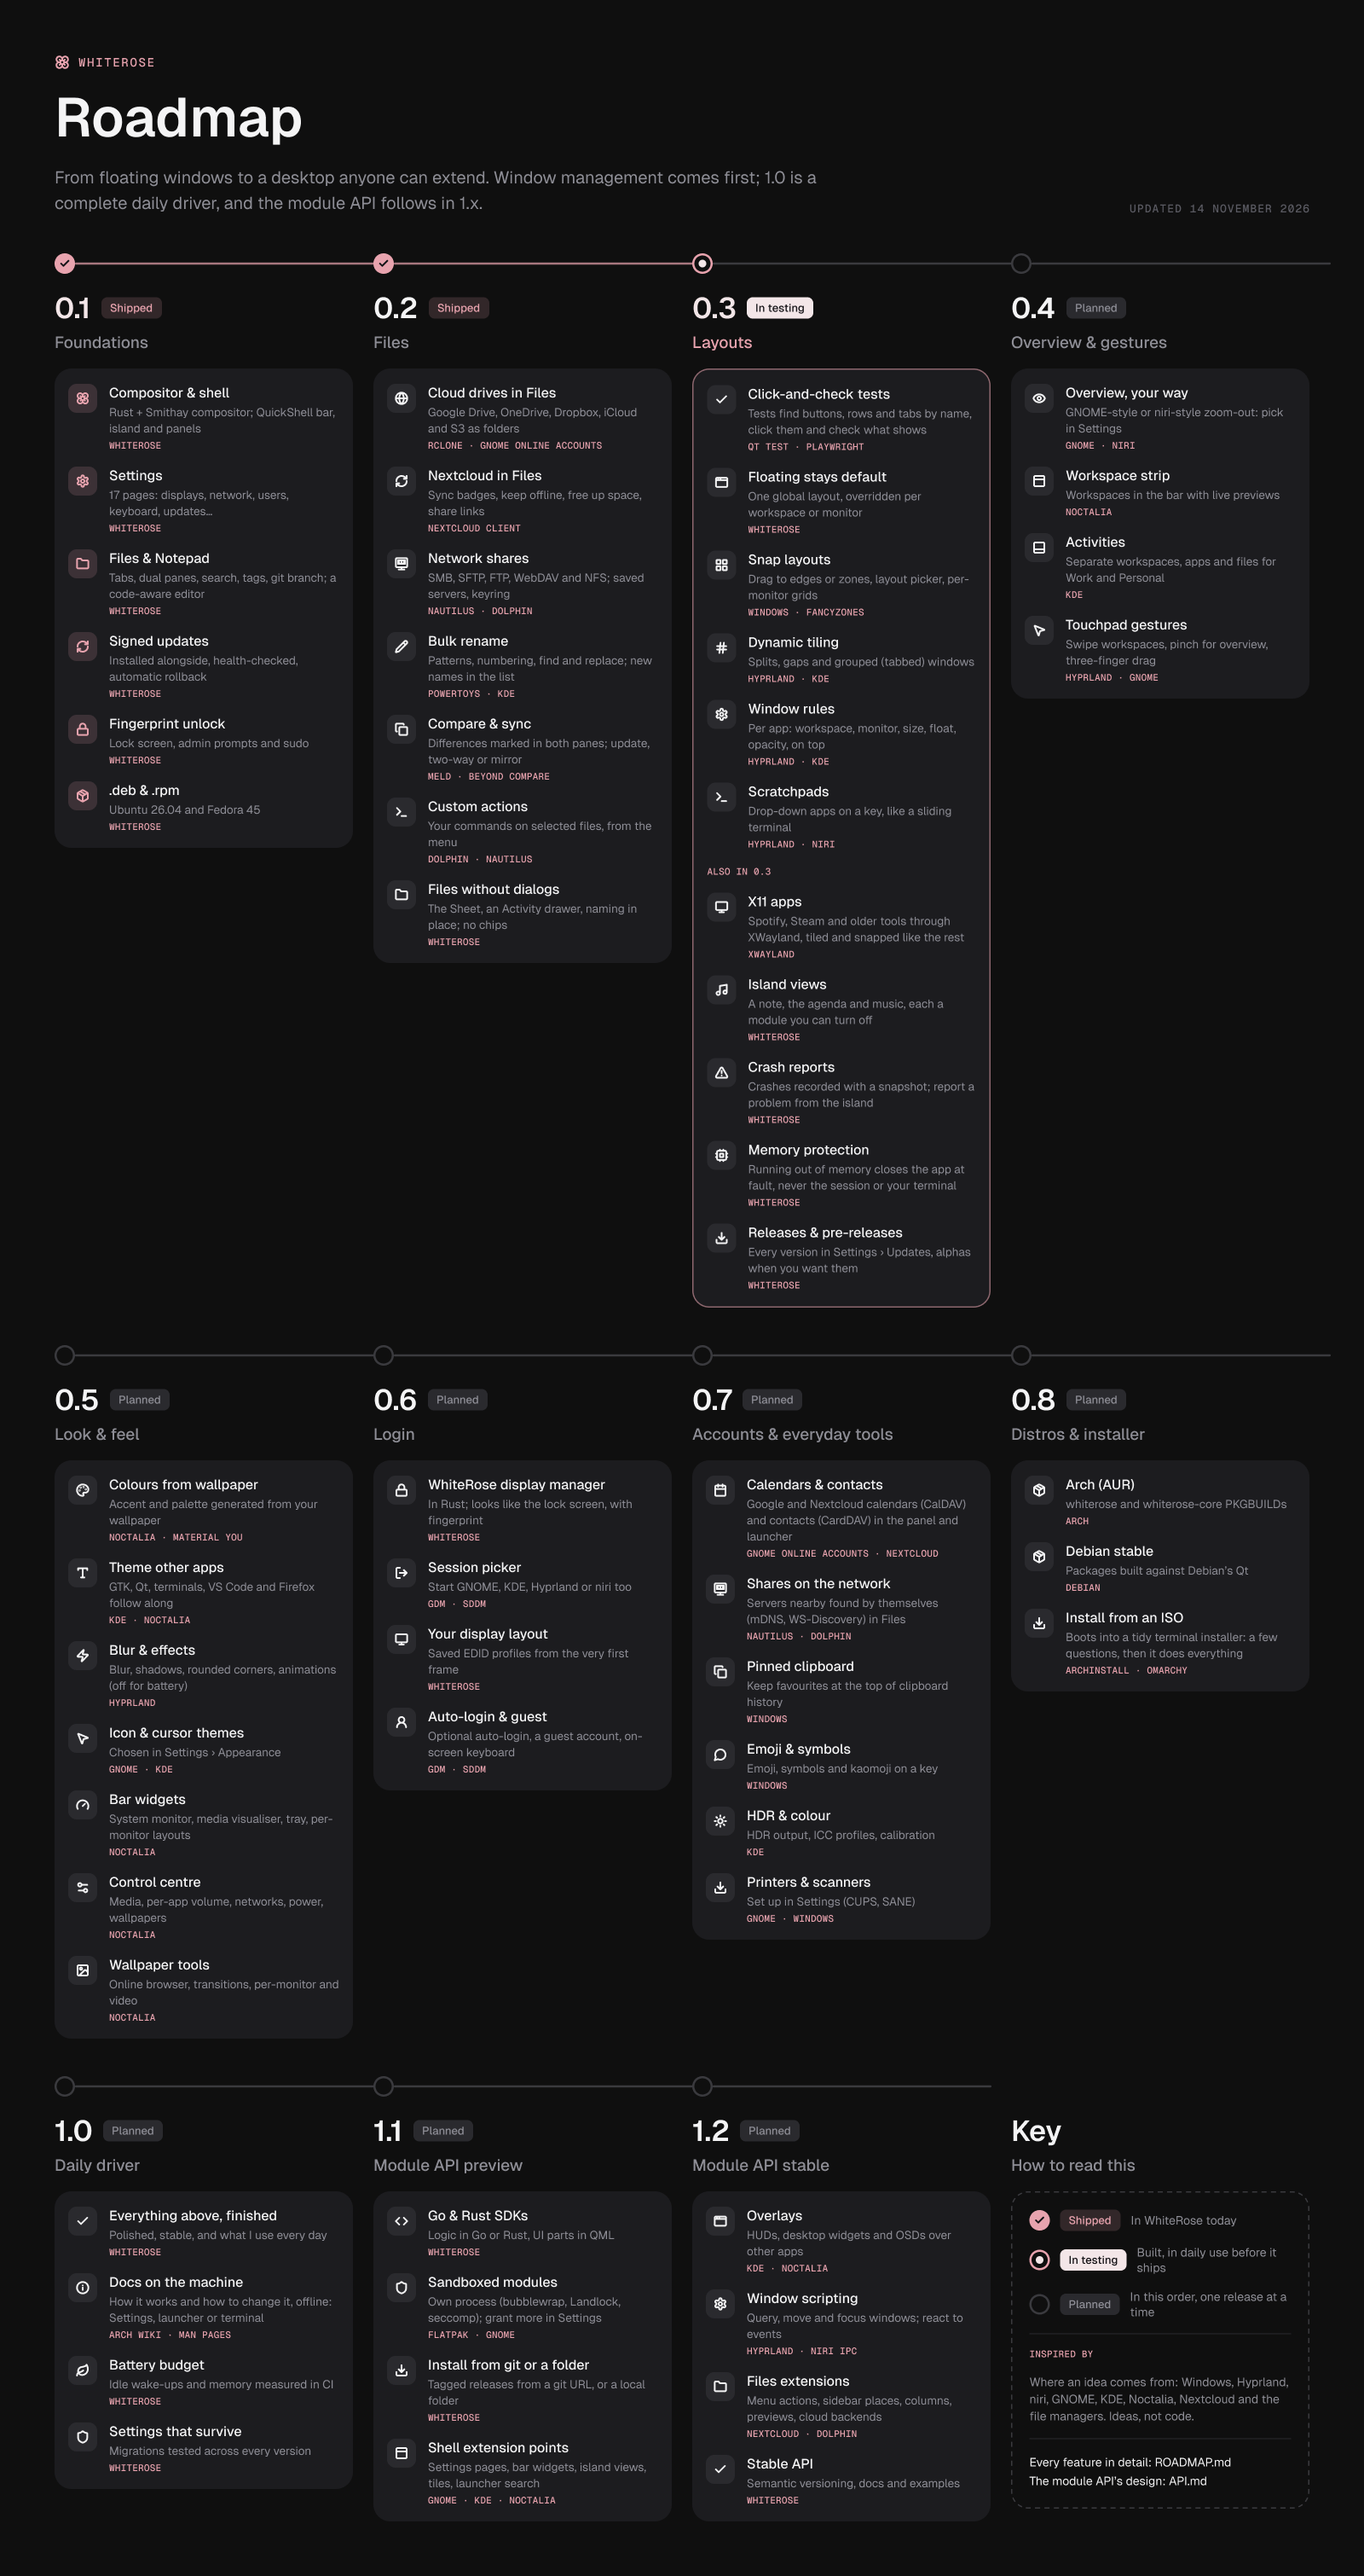
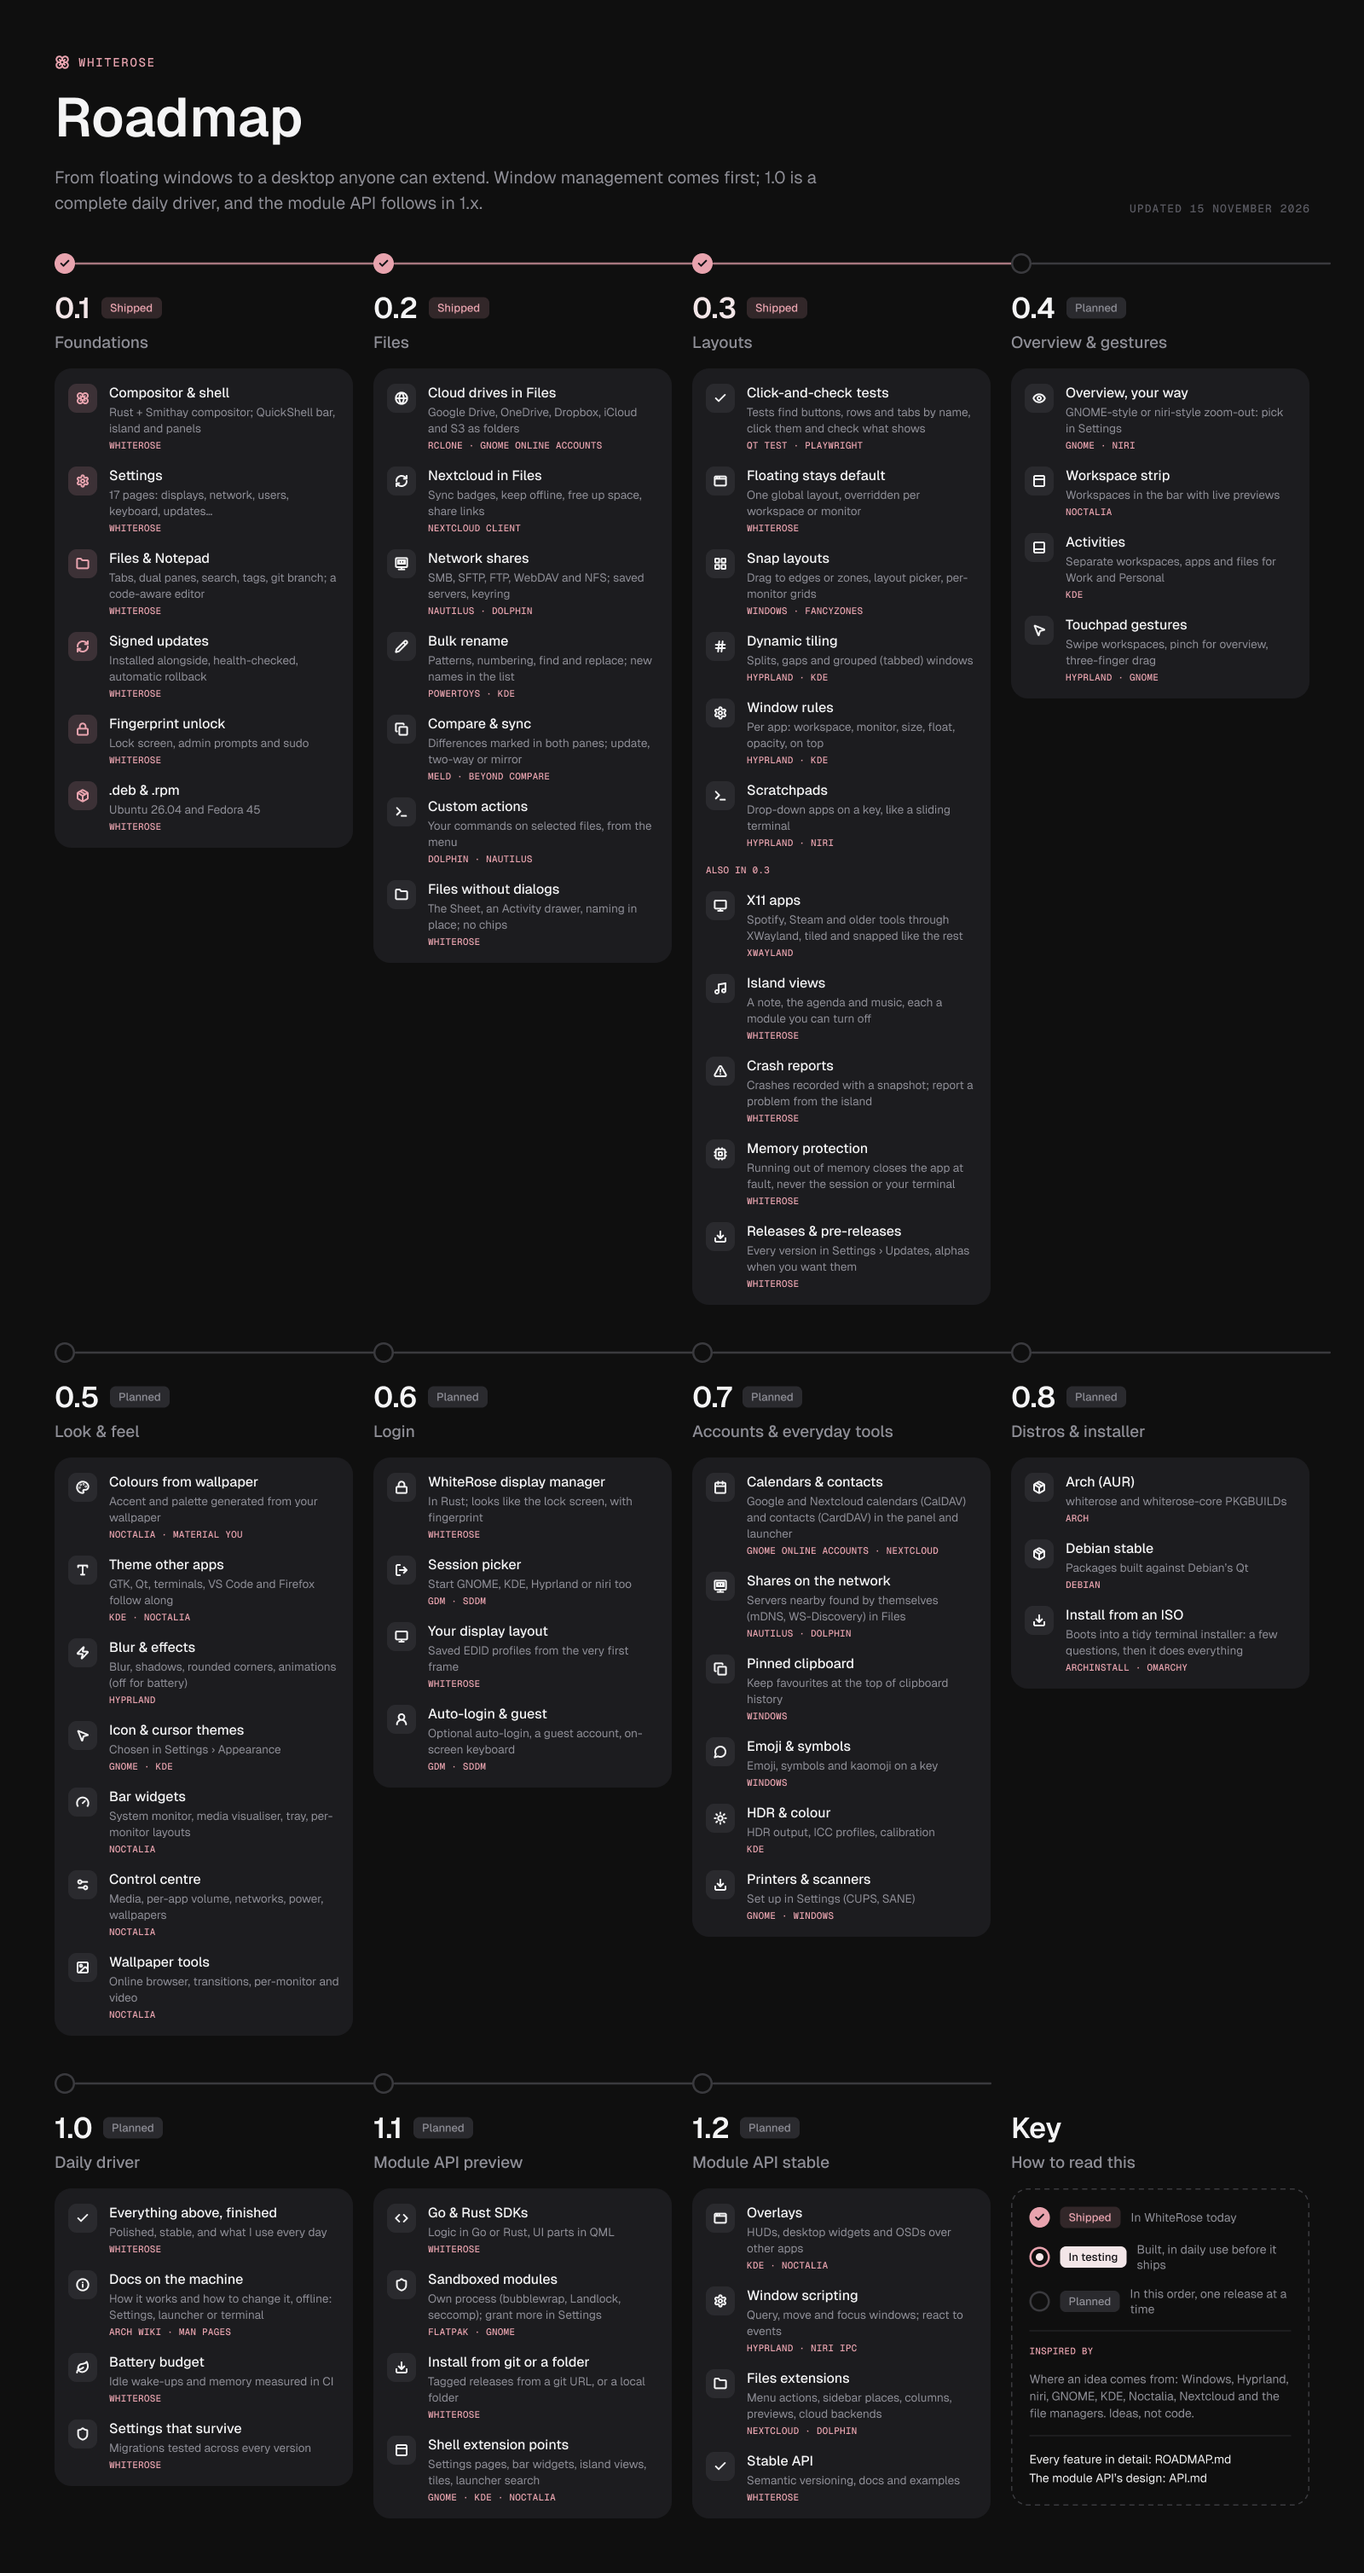
feat: added release project notes for 0.3, as well as update the roadmap

diff --git a/CHANGELOG.md b/CHANGELOG.md
@@ -2,6 +2,72 @@
 
 Every WhiteRose release, newest first. Written from `project.yaml` by `make changelog`; edit that, not this.
 
+## 0.3.0 · Layouts (2026-11-15)
+
+Windows that arrange themselves: tiled, snapped to edges and your own zones, placed by per-app rules, or dropped down as scratchpads. 0.3 also brings what a daily desktop can't do without: X11 apps, a session that survives running out of memory, problem reports from the island, and every release in Settings › Updates.
+
+### Added
+
+- Tiling: dwindle and master-stack layouts with gaps, chosen for everything and overridden per workspace or monitor (Settings › Windows, SUPER+T, or the button on the bar)
+- Snapping: drag a window to an edge or corner, or pick a layout from SUPER+Z, a drag to the top, or a WhiteRose app's maximise button. Snap zones are your own grid per monitor or workspace, used with SHIFT while dragging (Settings › Snapping)
+- Window rules: by app and title, open a window on a workspace or monitor, floating or tiled, at a size, in a snap zone, see-through or always on top (Settings › Window rules)
+- Scratchpads: apps shown and hidden with a key, sliding down from the island, like a drop-down terminal (Settings › Scratchpads)
+- X11 apps (Spotify, Steam, older tools) open through XWayland and work like any other window, with copy and paste and drag and drop both ways. Xwayland only runs while an X11 app is open
+- Running out of memory no longer ends the session: each app runs on its own, the island names the one at fault, and when memory is critical an app big enough to help is closed. Terminals and the apps you choose are never closed (Settings › Apps › Memory)
+- Report a problem step by step in the island (SUPER+SHIFT+B, Settings › About, or after a crash): what WhiteRose recorded is filled in, and you see everything before it's sent
+- Crashes are recorded with a snapshot of the moment (load, open windows, the session log), and the island offers to report them
+- Settings › Updates › Releases: every release with its notes and a search, and installing any of them (older ones too). A Pre-releases switch offers alphas and betas as updates
+- Tabbed groups: several windows in one tile with a strip of their icons (SUPER+G, SUPER+. and SUPER+,)
+- Keyboard control of tiles: focus, move and resize with SUPER and the arrows, SUPER+R to resize, SUPER+J to flip a split, SUPER+M to make master
+- SUPER+ALT+arrow moves a window to the previous or next workspace, and SUPER+CTRL+arrow to the monitor on that side
+- In the island: a note with tasks (SUPER+SHIFT+N), the agenda (SUPER+A, or click the clock), music for whichever player is playing (SUPER+SHIFT+M) and clipboard history (SUPER+V)
+- SUPER+K shows the keyboard shortcuts worth knowing, on the keys they're on now (your own included)
+- Open and save dialogs in other apps use Files (through the desktop portal), and so does choosing your account picture
+- Default apps (Settings › Apps › Default apps): what opens each kind of file, by category or by file type
+- Nextcloud accounts in Files, signing in with Nextcloud's own browser sign-in
+- Mouse & touchpad settings: scroll direction, speed, acceleration and tap to click; shake the pointer to find it; hold CTRL+SHIFT to move it faster
+- Touchpad gestures reach apps: pinch to zoom in browsers (and Figma), swipe and hold
+- After a fingerprint login, the island asks once for your password to open the keyring, so calendars and other accounts come back; unlocking with your password opens it too
+- Monitors plugged in after logging in show up straight away, and screens can be scaled to 75%
+- ALT+TAB can show apps from every workspace or only this one (Settings › Windows)
+
+### Changed
+
+- The window switcher is SUPER+TAB (was SUPER+ALT+TAB); ALT+TAB still switches apps
+- Files is fast on network drives: folders load in the background, open at once when you've been there, and files open and preview without waiting on the server. Network drives show by name, not by their mount folder
+- Files builds its search index in the background, and Settings › Files shows how far it's got
+- Settings fits narrow windows: the sidebar folds away and pages reflow
+- Sliders only take the scroll wheel once you've clicked them, so scrolling a page doesn't move them
+- Do not disturb shows a bell with a line through it in the bar, and the bar's icons are sharper
+- The lock screen and quick settings share one profile picture, and a new picture shows without restarting
+- Plainer wording in sentence case across the shell, Settings and the apps
+- pCloud is no longer offered in Add cloud account (accounts already added keep working)
+- The packages depend on Xwayland
+
+### Fixed
+
+- Files froze ("not responding") opening folders and files on Nextcloud
+- Files on a network drive, USB stick or NTFS disk asked to be run instead of opening
+- Pictures in folders with % # or ? in their path didn't show
+- Logging into GNOME after WhiteRose: apps took 25 s to start (WhiteRose's desktop portal and settings were left behind)
+- Settings didn't open again after being closed with SUPER+Q, the dock or the switcher
+- Apps that had exited were left behind as zombie processes
+- Going back after a failed update deleted the settings changed meanwhile; they're now kept in snapshot-replaced
+- A newly installed version is started at the next login even when an older one was still waiting to be tried
+- Settings › About said "development" instead of the version
+- The screenshot toast's buttons didn't take clicks
+- The Security tab of a Wi-Fi network's settings was laid out badly
+- A panel or overlay layer could be drawn under one in a lower layer that opened after it
+- Leftover WhiteRose folders in /tmp are cleared after a day unused
+
+From 0.2.1, this comes through Settings › Updates like any update. From a 0.3 alpha, it's offered in Settings › Updates (alpha.4 or later), or install it with this release's `install.sh`. Your settings carry over.
+
+The window switcher moved from SUPER+ALT+TAB to SUPER+TAB, and windows float as they did in 0.2 until you pick a tiling layout (SUPER+T or Settings › Windows). X11 apps need Xwayland, which the packages bring with them.
+
+Each 0.3 alpha's own notes are in [CHANGELOG.md](https://github.com/BlueBeard63/WhiteRose/blob/master/CHANGELOG.md).
+
+Contributors: @BlueBeard63
+
 ## 0.3.0-alpha.7 · Memory protection that picks the right app (alpha) (2026-11-14)
 
 The seventh 0.3 alpha: when memory runs short, WhiteRose no longer closes apps that aren't the cause, and never closes a terminal. If you're on alpha.4 or later with Pre-releases on, it comes through Settings › Updates.

diff --git a/ROADMAP.md b/ROADMAP.md
@@ -2,7 +2,7 @@
 
 # WhiteRose Roadmap
 
-![The WhiteRose roadmap: eleven milestones from 0.1 Foundations to 1.2 Module API stable; 0.1 and 0.2 shipped, 0.3 in testing](docs/roadmap.png)
+![The WhiteRose roadmap: eleven milestones from 0.1 Foundations to 1.2 Module API stable; 0.1, 0.2 and 0.3 shipped](docs/roadmap.png)
 
 </div>
 
@@ -14,7 +14,7 @@ Each feature lists where the idea comes from: Windows, Hyprland, niri, GNOME, KD
 |---|---|---|---|
 | ✅ | [**0.1**](#01--foundations) | Foundations | What WhiteRose is today. |
 | ✅ | [**0.2**](#02--files) | Files | Online drives, network shares, and no dialogs. |
-| 🧪 | [**0.3**](#03--layouts) | Layouts | How windows are arranged, plus the basics a daily desktop needs. In testing as 0.3.0-alpha.7. |
+| ✅ | [**0.3**](#03--layouts) | Layouts | How windows are arranged, plus the basics a daily desktop needs. |
 | 🗓 | [**0.4**](#04--overview--gestures) | Overview & gestures | Seeing everything at once, and moving around with gestures. |
 | 🗓 | [**0.5**](#05--look--feel) | Look & feel | Making it yours, and making every app match. |
 | 🗓 | [**0.6**](#06--login) | Login | WhiteRose from the first frame: its own display manager. |
@@ -94,9 +94,9 @@ All of it is described in the [README](README.md) and [ARCHITECTURE.md](ARCHITEC
 
 ## 0.3 · Layouts
 
-**In testing** (0.3.0-alpha.7). How windows are arranged: floating, snapped or tiled, one global choice with overrides.
+**Shipped** in 0.3.0, after seven alphas. How windows are arranged: floating, snapped or tiled, one global choice with overrides.
 
-Everything planned for 0.3 is in. Using WhiteRose every day while building it turned up more that a daily desktop can't do without (X11 apps, crash reports, memory protection), so that came into 0.3 too: see [Also in 0.3](#also-in-03). From here 0.3 only takes fixes; 0.3.0 follows a stretch of daily use with nothing new going wrong.
+Everything planned for 0.3 is in. Using WhiteRose every day while building it turned up more that a daily desktop can't do without (X11 apps, crash reports, memory protection), so that came into 0.3 too: see [Also in 0.3](#also-in-03). The full list is in the [changelog](CHANGELOG.md).
 
 <details>
 <summary>✅ <b>Click-and-check tests</b>: Tests that use WhiteRose like a person would, without guessing where things are on screen. <sub>· Qt Test, Playwright</sub></summary>

diff --git a/README.md b/README.md
@@ -137,7 +137,7 @@ make package      # the .deb and .rpm, built in Ubuntu and Fedora containers
 
 ## Roadmap
 
-0.3 (layouts, X11 apps, memory protection) is in testing. Next come the overview and gestures, look and feel, WhiteRose's own login screen, online accounts and more distributions. **1.0 is a complete daily driver**, and a sandboxed Go / Rust / QML module API follows in 1.x.
+0.3 (layouts, X11 apps, memory protection) is out. Next come the overview and gestures, look and feel, WhiteRose's own login screen, online accounts and more distributions. **1.0 is a complete daily driver**, and a sandboxed Go / Rust / QML module API follows in 1.x.
 
 [![The WhiteRose roadmap](docs/roadmap.png)](ROADMAP.md)
 
